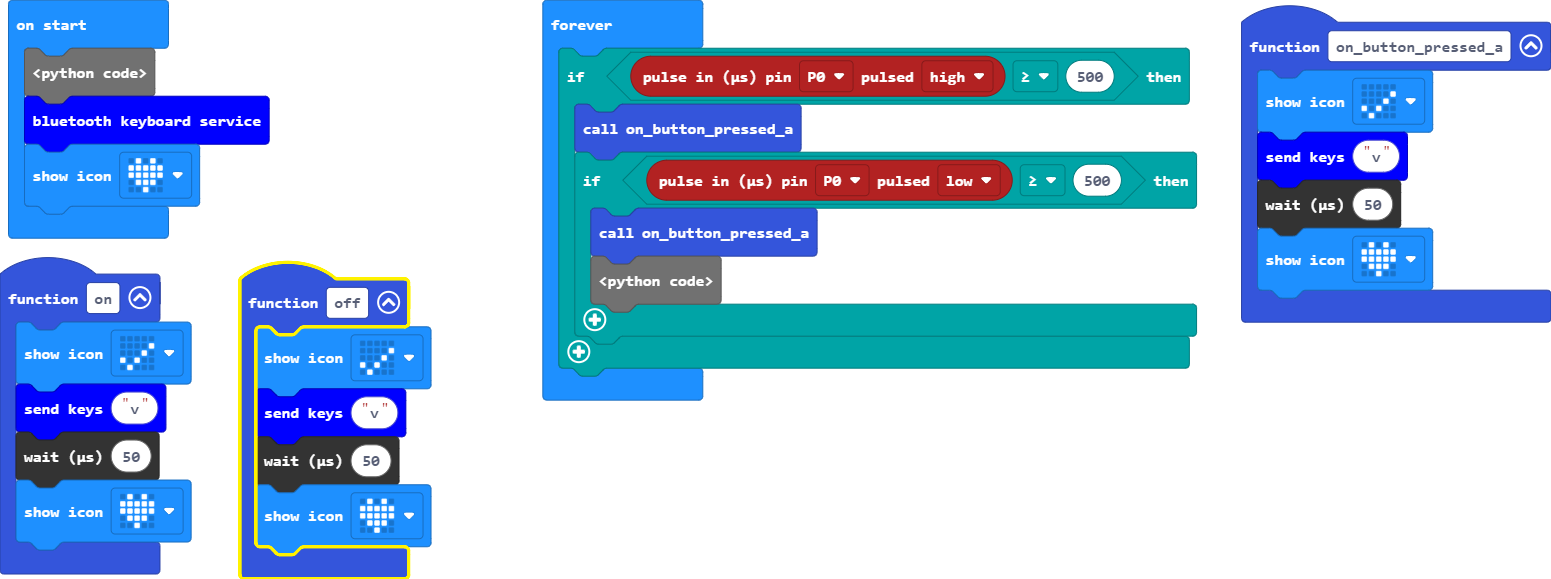
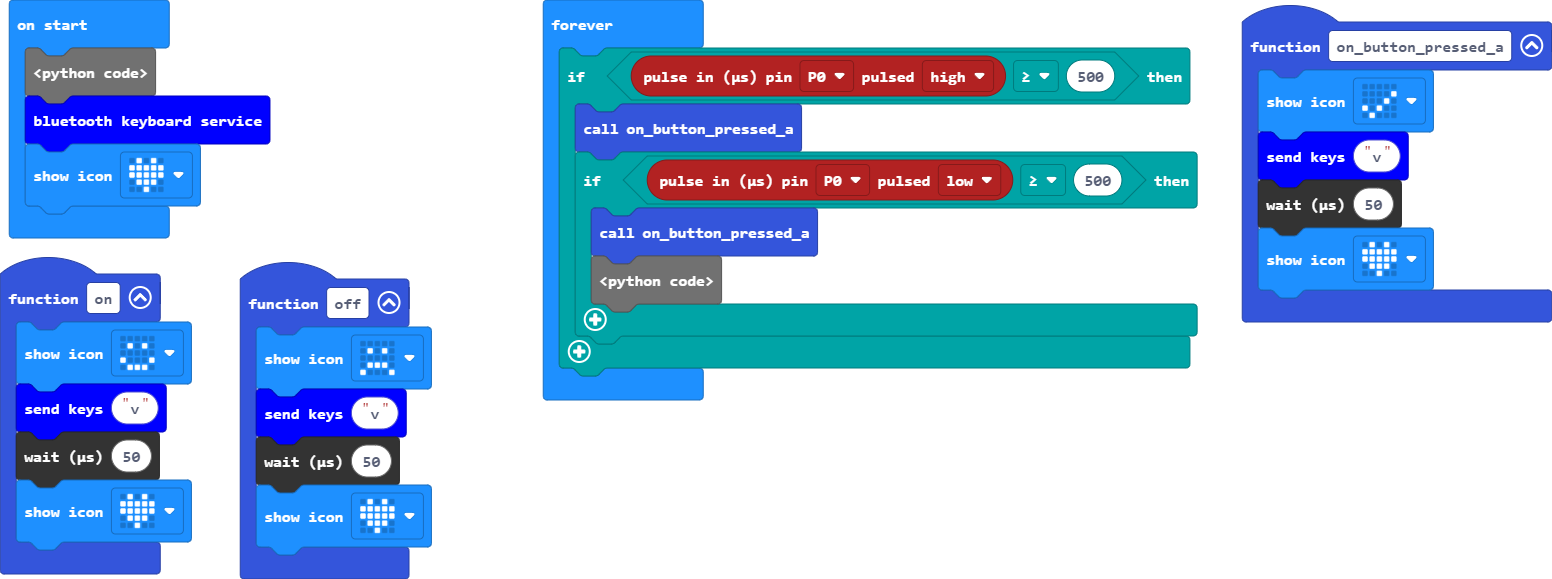
Update pxt.json, main.blocks, main.ts, main.py

diff --git a/main.ts b/main.ts
@@ -1,30 +1,33 @@
-function on_button_pressed_a () {
-    basic.showIcon(IconNames.Yes)
+function off() {
+    basic.showIcon(IconNames.Sad)
     keyboard.sendString("v")
     control.waitMicros(50)
     basic.showIcon(IconNames.Heart)
 }
-function off () {
-    basic.showIcon(IconNames.Yes)
+
+function on() {
+    basic.showIcon(IconNames.Happy)
     keyboard.sendString("v")
     control.waitMicros(50)
     basic.showIcon(IconNames.Heart)
 }
-function on () {
+
+input.onButtonPressed(Button.A, function on_button_pressed_a() {
     basic.showIcon(IconNames.Yes)
     keyboard.sendString("v")
     control.waitMicros(50)
     basic.showIcon(IconNames.Heart)
-}
-input.onButtonPressed(Button.A, on_button_pressed_a)
+})
 keyboard.startKeyboardService()
 basic.showIcon(IconNames.Heart)
-basic.forever(function () {
+basic.forever(function on_forever() {
     if (pins.pulseIn(DigitalPin.P0, PulseValue.High) >= 500) {
-        on_button_pressed_a()
+        on()
         if (pins.pulseIn(DigitalPin.P0, PulseValue.Low) >= 500) {
-            on_button_pressed_a()
+            off()
             return
         }
+        
     }
+    
 })

diff --git a/main.py b/main.py
@@ -3,28 +3,24 @@ def on_button_pressed_a():
     keyboard.send_string("v")
     control.wait_micros(50)
     basic.show_icon(IconNames.HEART)
-
-def on():
-    basic.show_icon(IconNames.YES)
-    keyboard.send_string("v")
-    control.wait_micros(50)
-    basic.show_icon(IconNames.HEART)
-
 def off():
-    basic.show_icon(IconNames.YES)
+    basic.show_icon(IconNames.SAD)
     keyboard.send_string("v")
     control.wait_micros(50)
     basic.show_icon(IconNames.HEART)
-
+def on():
+    basic.show_icon(IconNames.HAPPY)
+    keyboard.send_string("v")
+    control.wait_micros(50)
+    basic.show_icon(IconNames.HEART)
 input.on_button_pressed(Button.A, on_button_pressed_a)
-
 keyboard.start_keyboard_service()
 basic.show_icon(IconNames.HEART)
 
 def on_forever():
     if pins.pulse_in(DigitalPin.P0, PulseValue.HIGH) >= 500:
-        on_button_pressed_a()
+        on()
         if pins.pulse_in(DigitalPin.P0, PulseValue.LOW) >= 500:
-            on_button_pressed_a()
+            off()
             return
 basic.forever(on_forever)
